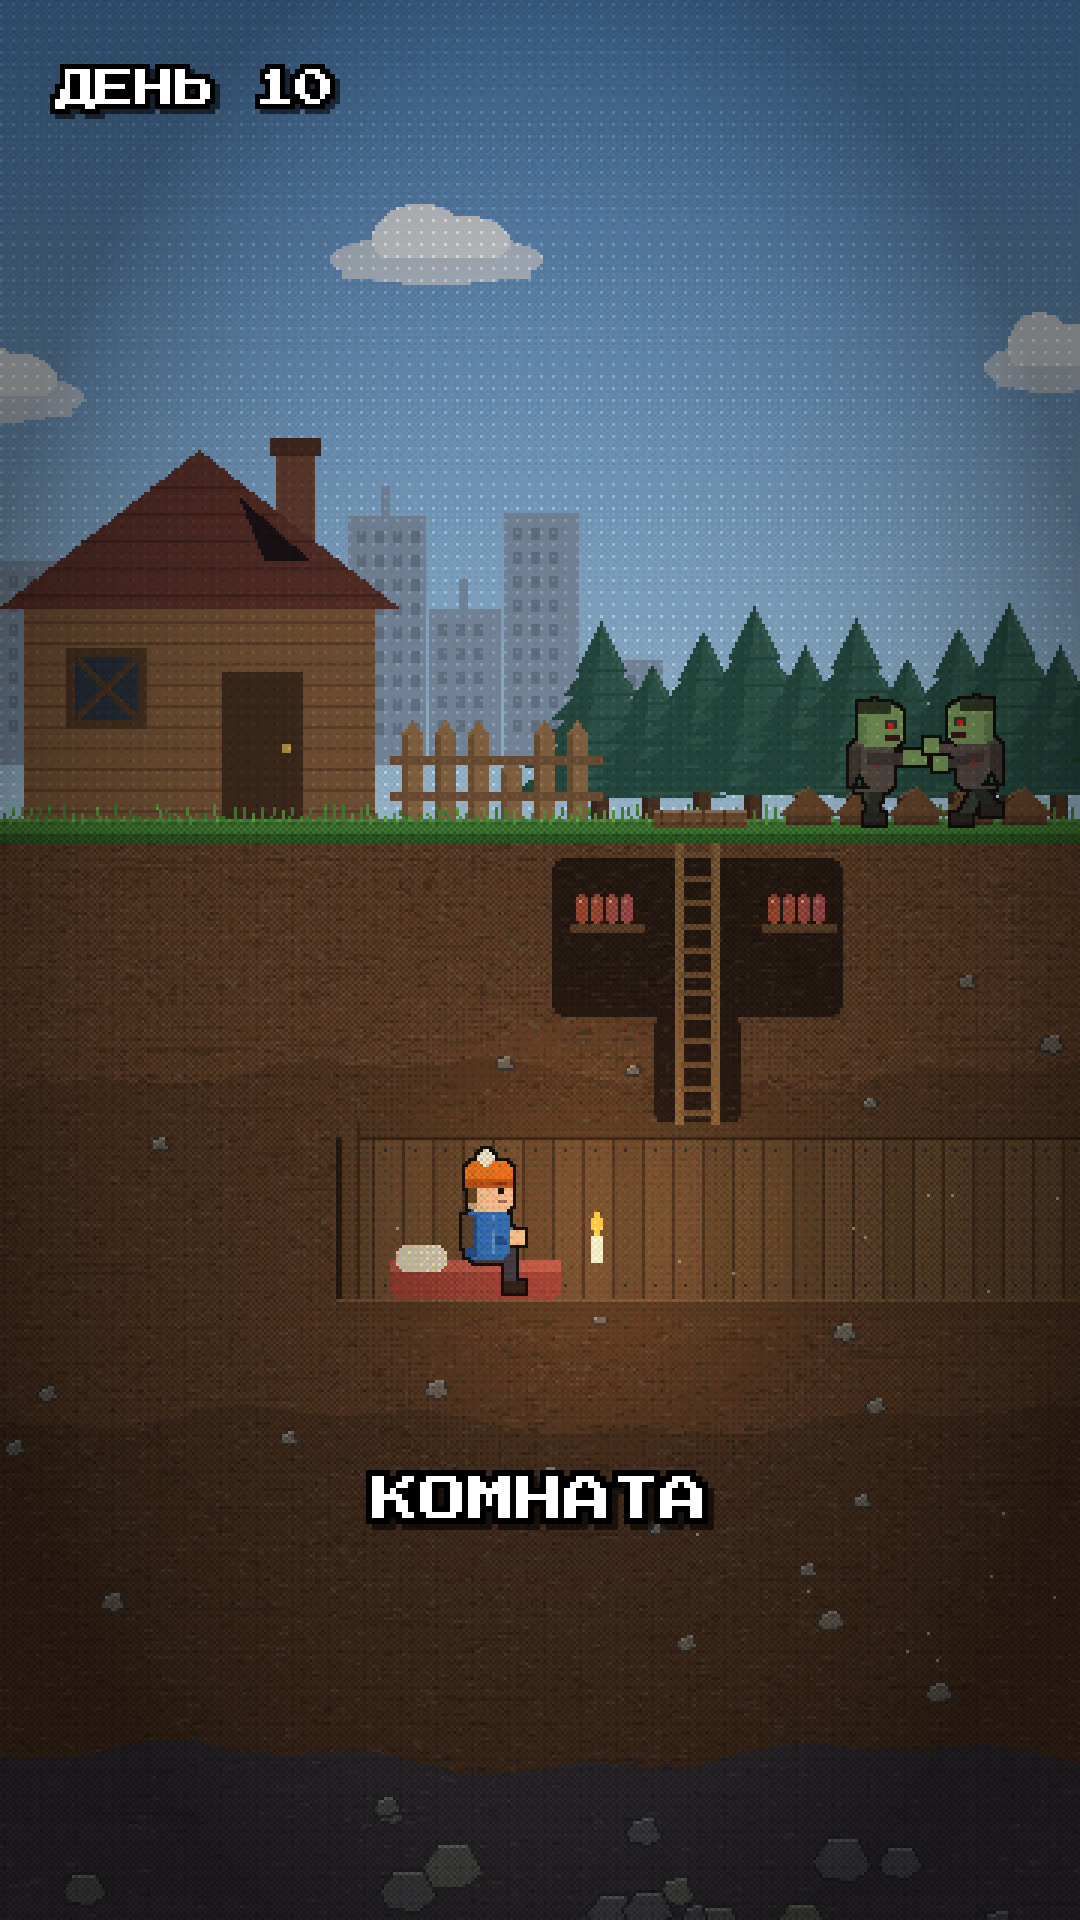
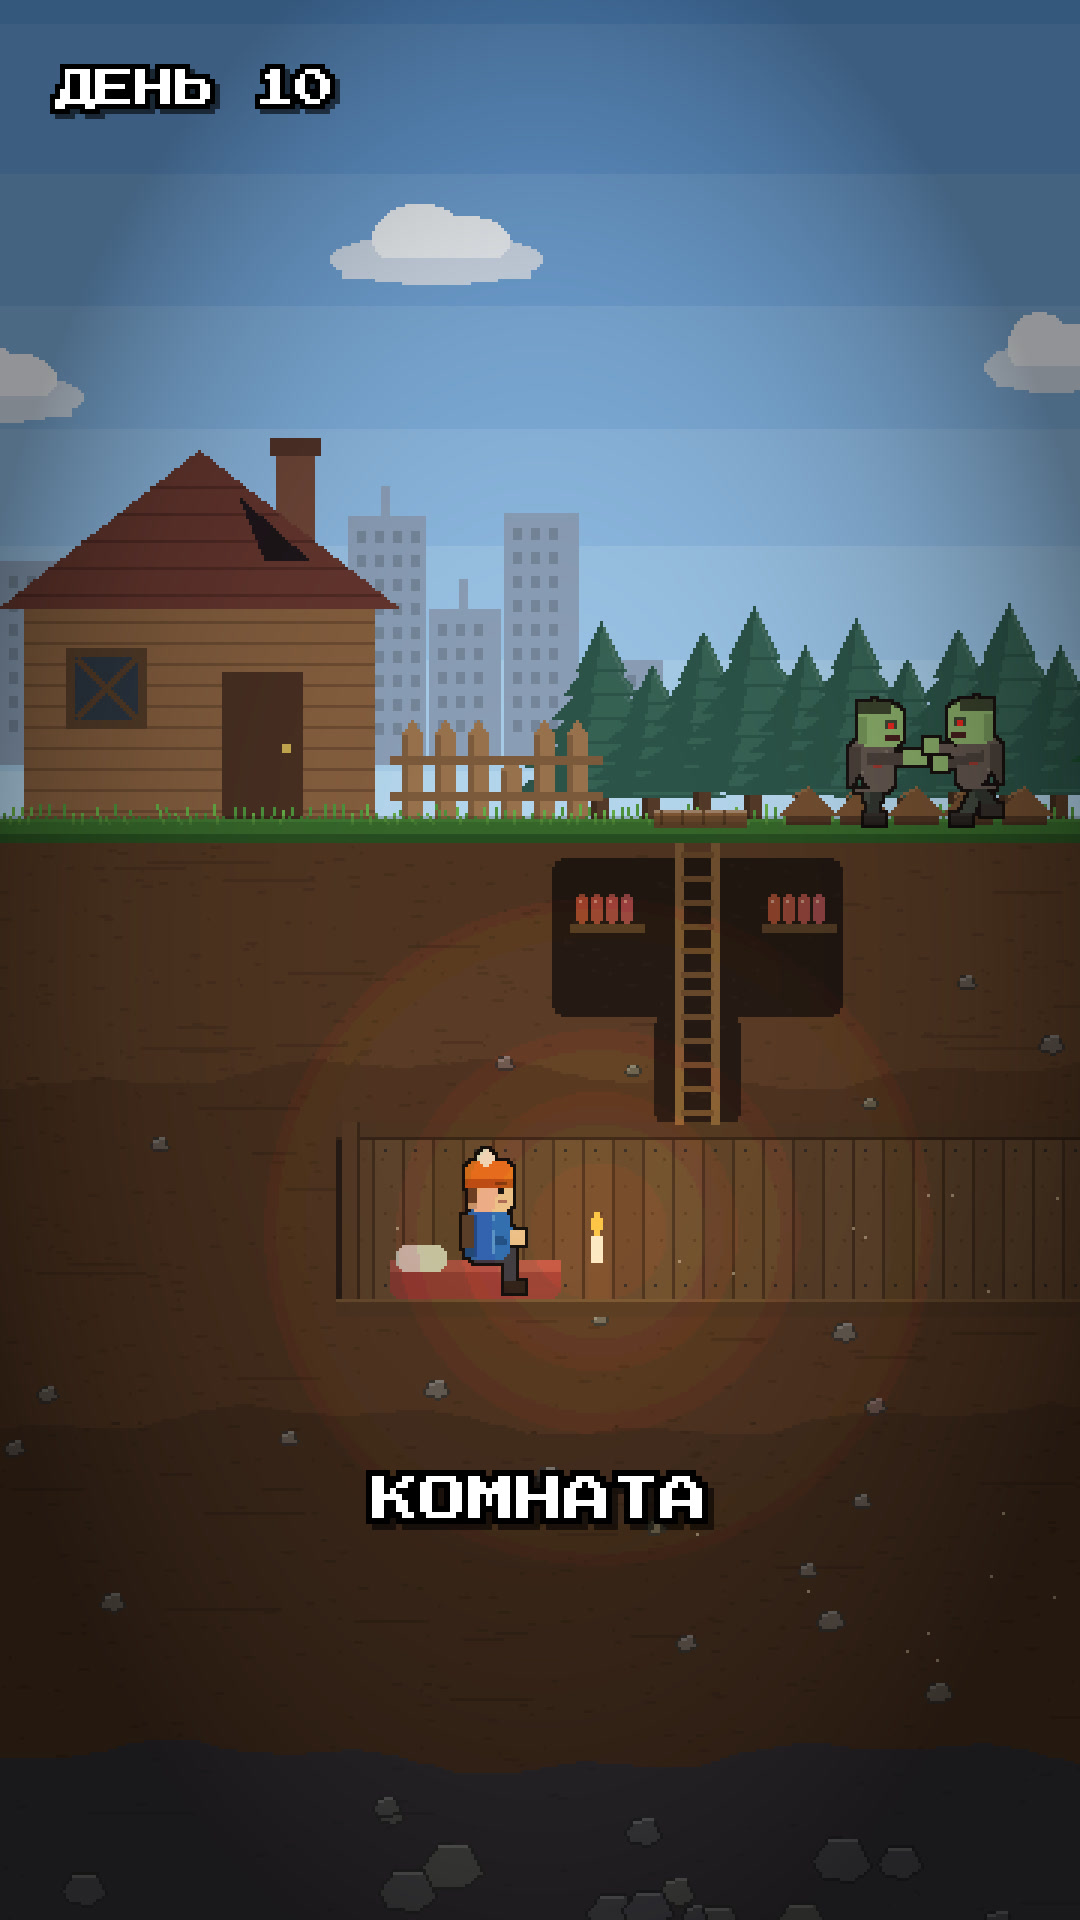
Zombi bunker: remove noise, dithering and halftone; cleaner pixel look
Claude-Session: https://claude.ai/code/session_012AJnV3FoB4MYQ4cLJ3yctW

diff --git a/tiktok/zombi/bunker/scene.py b/tiktok/zombi/bunker/scene.py
@@ -242,8 +242,7 @@ def _static():
         # волнистая граница слоя
         pts = [(0, BH)] + [(x, y + 4 * math.sin(x / 37 + i) + 2 * math.sin(x / 11 + i * 2)) for x in range(0, BW + 6, 6)] + [(BW, BH)]
         d.polygon(pts, fill=c)
-        noise_dots(d, (0, y, BW, y1 + 6), [lerp(c, (0, 0, 0), 0.16), lerp(c, (0, 0, 0), 0.08),
-                                            lerp(c, (255, 255, 255), 0.07)], 5200, i, size=3)
+        noise_dots(d, (0, y, BW, y1 + 6), [lerp(c, (0, 0, 0), 0.1)], 500, i, size=4)   # редкие комочки, без «шума»
         for _ in range(26):                   # горизонтальные прожилки
             sx, sy = r.randrange(BW), r.randrange(y + 4, y1)
             d.line([(sx, sy), (sx + r.randrange(10, 40), sy)], fill=lerp(c, (0, 0, 0), 0.12))
@@ -268,7 +267,7 @@ def sky(d, kind, t):
     a, b = tops[kind]
     steps = 7                                 # небо ступенями с точечным переходом, как в пиксель-арте
     k = (np.arange(GY, dtype=np.float32)[:, None] / GY) ** 1.2 * steps
-    k = np.floor(k + BAYER[:GY]) / steps
+    k = np.broadcast_to(np.floor(k + 0.5) / steps, (GY, BW))   # чистые полосы, без точечного узора
     k = np.clip(k, 0, 1)[..., None]
     arr = np.array(a, np.float32) + (np.array(b, np.float32) - np.array(a, np.float32)) * k
     d._image.paste(Image.fromarray(arr.astype(np.uint8)).im, (0, 0, BW, GY))
@@ -373,8 +372,8 @@ def room(d, box, finished, depth=1.0, side="right", seed=0):
     elif side == "down":
         y1 = y0 + int((y1 - y0) * min(1, depth))
     d.rounded_rectangle([x0, y0, x1, y1], 4, fill=(48, 33, 25))
-    noise_dots(d, (x0 + 2, y0 + 2, x1 - 1, y1 - 1), [(58, 41, 31), (40, 27, 21), (64, 46, 34)],
-               (x1 - x0) * (y1 - y0) // 12, seed, size=3)
+    noise_dots(d, (x0 + 2, y0 + 2, x1 - 1, y1 - 1), [(54, 38, 29)],
+               (x1 - x0) * (y1 - y0) // 90, seed, size=3)
     if finished:
         for i, x in enumerate(range(x0 + 2, x1 - 4, 10)):
             sh = (118, 84, 54) if i % 3 else (110, 78, 50)
@@ -701,7 +700,9 @@ def world(n, p, t):
     if n >= 18:
         glow(L, 228, 428, 34, 0.6 * flick(t, 5), warm)
     L = 1.3 * np.tanh(L / 1.3)              # мягкий потолок света — без пересвета
-    L = np.floor(L * 6 + BAYER[..., None]) / 6  # свет ступенями с точечным переходом
+    L = np.round(L * 10) / 10                # свет ступенями, без точечного узора
+    L[:GY - 2] = L[GY + 40, 0] * 0 + {"day": 1.0, "evening": 0.94, "night": 0.66}[kind] * (
+        np.array([0.85, 0.9, 1.25], np.float32) if kind == "night" else 1)   # лампы не светят в небо
     out = np.clip(a * L, 0, 1)
     img = Image.fromarray((out * 255).astype(np.uint8))
     d = ImageDraw.Draw(img, "RGBA")

diff --git a/tiktok/zombi/bunker/build.py b/tiktok/zombi/bunker/build.py
@@ -279,8 +279,6 @@ def frame(fi):
     part = img.crop((wx0, wy0, wx0 + VW + 1, wy0 + VH + 1)).resize(((VW + 1) * S3, (VH + 1) * S3), Image.NEAREST)
     part = part.crop((x0 - wx0 * S3, y0 - wy0 * S3, x0 - wx0 * S3 + W, y0 - wy0 * S3 + H))
     fr = np.asarray(part).astype(np.float32)
-    lum = fr.mean(2, keepdims=True) / 255   # точечный растр на тёмных местах, как в фильмах
-    fr = fr * (1 - 0.2 * G["dots"][..., None] * np.clip(1 - lum * 1.6, 0, 1))
     fr *= G["vig"]
     if s["n"] == 1:
         fr *= 0.85

diff --git a/tiktok/zombi/ZOMBI.md b/tiktok/zombi/ZOMBI.md
@@ -9,6 +9,8 @@
 (Press Start 2P: слово 48 px, ключевые фразы в 2 строки белый+фиолетовый, имя жёлтым 32 px).
 Сейчас: мир 540×960, камера показывает кусок 360×640 ×3 и едет за героем; свет и небо ступенями с
 точечным переходом; смена сцен — пиксельное растворение. **PixelLab НЕ использовать** (сказал владелец).
+Отзыв на 3-й тест: фон «с белым шумом, шершавый» → убраны точечный растр, шахматный узор (дизеринг) света
+и неба, густые точки в земле. Земля и небо — чистые ровные заливки.
 
 ## «100 ДНЕЙ В БУНКЕРЕ» — `bunker/`
 - `script.py` — 20 сцен `(№, "ДЕНЬ N", текст)`, `**…**` — ключевые слова (жёлтым).
